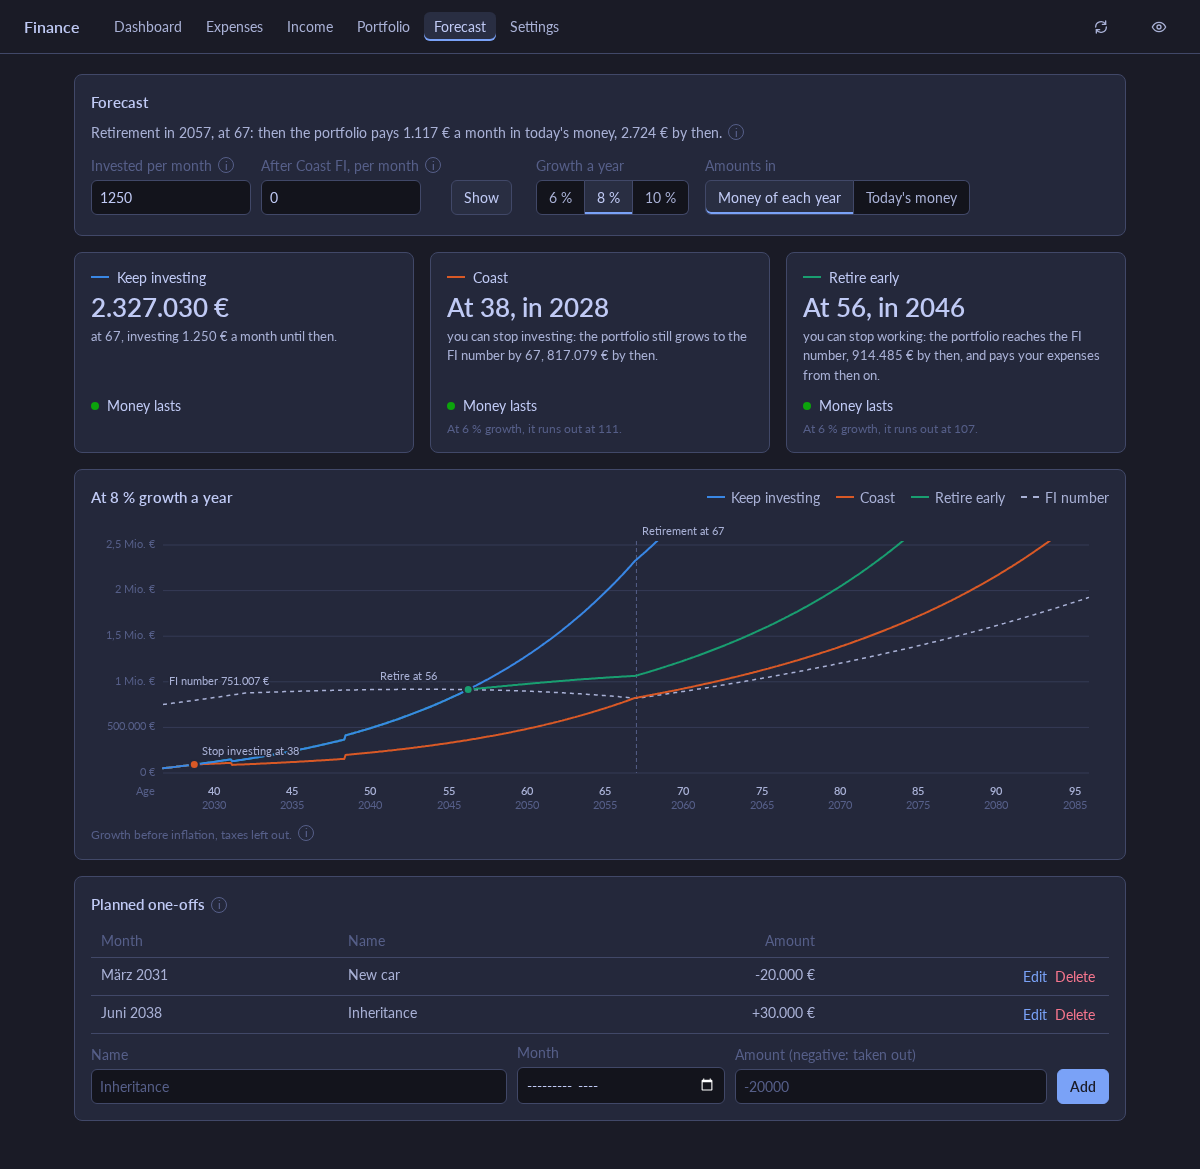
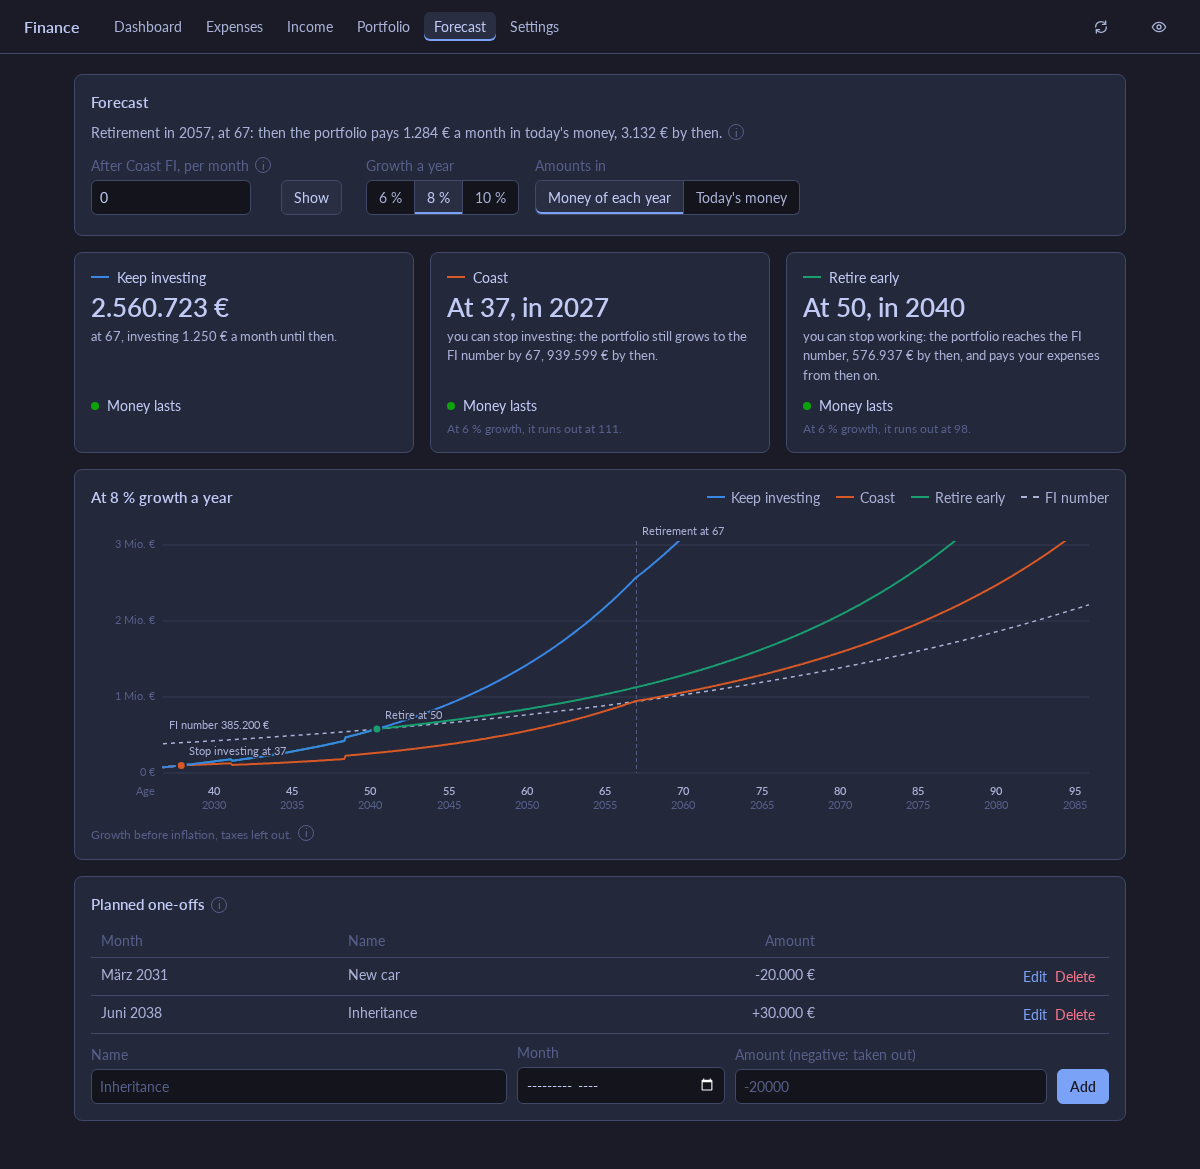
Let the future pay-in be the 12-month average or an amount of your own
Settings gets a Future pay-in: the average pay-in of the last 12 months,
as before and by default, or an amount you set, for a change you know
is coming, such as a raise or paying in less after Coast FI. It stays
the same every month: inflation does not raise it.

- Data file version 13: settings.futurePayIn, null for the average or
  cents (not negative). Older files upgrade to null; server.py matches.
- futurePayIn() picks the amount; metrics' payIn is { amount, months },
  months null for your own. The investment rate, Where the income goes,
  Time to FI, Lean FI, Coast FI, the Path to FI chart and the forecast
  all use it. The tile and the Invested row say "planned" for your own.
- The Forecast page's unsaved "Invested per month" field is gone: the
  plans invest the future pay-in, named in the chart's ⓘ. "After Coast
  FI, per month" stays.
- A negative 12-month average still counts as 0 in the forecast only,
  as before.
- README and its Forecast screenshot.

diff --git a/test/test_server.py b/test/test_server.py
@@ -14,7 +14,7 @@ sys.path.insert(0, str(Path(__file__).resolve().parent.parent))
 import server  # noqa: E402
 
 STORE = {
-    "version": 12,
+    "version": 13,
     "settings": {
         "withdrawalRate": 4,
         "bufferPercent": 10,
@@ -25,6 +25,7 @@ STORE = {
         "birthYear": None,
         "retirementAge": 67,
         "emergencyMonths": 6,
+        "futurePayIn": None,
     },
     "categories": {"expenses": [], "income": []},
     "expenses": [],

diff --git a/server.py b/server.py
@@ -30,7 +30,7 @@ APP_DIR = Path(__file__).resolve().parent / "app"
 UPDATE_SCRIPT = Path(__file__).resolve().parent / "update"
 MAX_BODY = 10 * 1024 * 1024
 NO_FILE = "none"
-VERSION = 12  # data file version; matches VERSION in app/finance.mjs
+VERSION = 13  # data file version; matches VERSION in app/finance.mjs
 NO_BODY = object()  # read_json found none it accepts, and said so
 
 # Dated copies of the data file kept in backups/ next to it: one a day.

diff --git a/README.md b/README.md
@@ -113,9 +113,15 @@ The data file stays.
   - Inflation (default 3 %): how much prices rise a year. Time to FI, the
     Path to FI chart and the forecast raise the expenses and the FI number
     by it, so their amounts are in the money of each year. Pay-ins stay as
-    they are: when they rise, so does their 12-month average. Data files
-    from before this setting get 3 % inflation and 3 points more expected
-    return, so 5 % after inflation becomes 8 % before it.
+    they are (see Future pay-in). Data files from before this setting get
+    3 % inflation and 3 points more expected return, so 5 % after inflation
+    becomes 8 % before it.
+  - Future pay-in: what you pay in a month from now on, for the investment
+    rate, the milestones, the Path to FI chart and the forecast. Either the
+    average pay-in of the last 12 months (default), which follows your
+    pay-ins as you enter them, or an amount of your own, for a change you
+    know is coming, such as a raise or paying in less after Coast FI. It
+    stays the same every month: inflation does not raise it.
   - Year of birth and the official retirement age (default 67: when the
     state pension starts without deductions, not when you plan to stop
     working), for the forecast. The forecast needs the year of birth; it is
@@ -210,7 +216,7 @@ also what was paid in that month (negative for withdrawals), and a
 **one-off**: a lump sum in or out, such as an inheritance or a house
 deposit. A one-off counts as paid in (so it is no gain), but not for the
 average pay-in that the investment rate, Time to FI and the forecast go on
-with. An account without a value in a month counts with its last value.
+with, unless Settings has your own future pay-in. An account without a value in a month counts with its last value.
 The history lists every month with each account, the portfolio, what was
 paid in and, with other kinds of accounts, the net worth.
 
@@ -237,7 +243,7 @@ from the middle of their month.
 | --- | --- |
 | Monthly income | Sum of the income that counts this month, each divided by its months (a yearly bonus counts one twelfth) |
 | Monthly expenses | Sum of the active expenses that count this month the same way, plus the buffer |
-| Investment rate | Average monthly pay-in over the last 12 months (one-offs left out) ÷ monthly income |
+| Investment rate | Future pay-in ÷ monthly income: the average monthly pay-in over the last 12 months (one-offs left out), or your own amount from Settings |
 | Portfolio | Sum of the invested accounts in the latest month, and its change since the month before |
 | Gains, last 12 months | Change in portfolio value over the last 12 months minus the pay-ins and one-offs. The return is that gain ÷ (the value 12 months ago + each pay-in and one-off for the part of the 12 months it was invested, from the middle of its month) |
 | Expenses covered | Portfolio ÷ monthly expenses: how long it would pay for them. Under it, the emergency fund: the latest values of the cash accounts ÷ monthly expenses, and how much is missing to the months set in Settings |
@@ -263,12 +269,13 @@ with your age then.
 How much it has is the portfolio ÷ what it needs. When, for FI and Lean
 FI, is Time to FI: the months until the portfolio reaches the FI number of
 that month (for retiring then). From the latest month it grows by the
-expected return (compounded monthly) and gets the average monthly pay-in
-each month, while the FI number rises by the inflation. Years from two
+expected return (compounded monthly) and gets the future pay-in (the
+average monthly pay-in of the last 12 months, or your own amount from
+Settings) each month, while the FI number rises by the inflation. Years from two
 years on; nothing beyond 100 years. For Coast FI, it is the first month
 from which the portfolio, with the same pay-ins until then and none after,
 grows to the FI number by the retirement age: the month the Forecast page's
-Coast tile names, for the average pay-in and nothing after Coast FI.
+Coast tile names, for the future pay-in and nothing after Coast FI.
 
 The **Portfolio** chart has two views; the one picked last stays picked.
 
@@ -297,17 +304,17 @@ and its change since the month before (left out in a month an account is
 entered for the first time).
 
 **Where the income goes** splits the monthly income into expenses (with
-the buffer), the average monthly pay-in of the last 12 months, and what is
-left over, or says how much more than the income those two take.
+the buffer), the future pay-in (the 12-month average or your own amount),
+and what is left over, or says how much more than the income those two take.
 **Expenses by category** shows the expenses without the buffer.
 
 ### Forecast
 
 ![Forecast](docs/forecast.png)
 
-Three plans, each investing the same amount a month until it changes
-course (the amount starts as the average pay-in of the last 12 months, and
-can be changed, to 0 too). A tile for each answers its question:
+Three plans, each investing the future pay-in from Settings a month until
+it changes course (a 12-month average that is a withdrawal counts as 0). A
+tile for each answers its question:
 
 | Plan | Invests | Its tile says |
 | --- | --- | --- |
